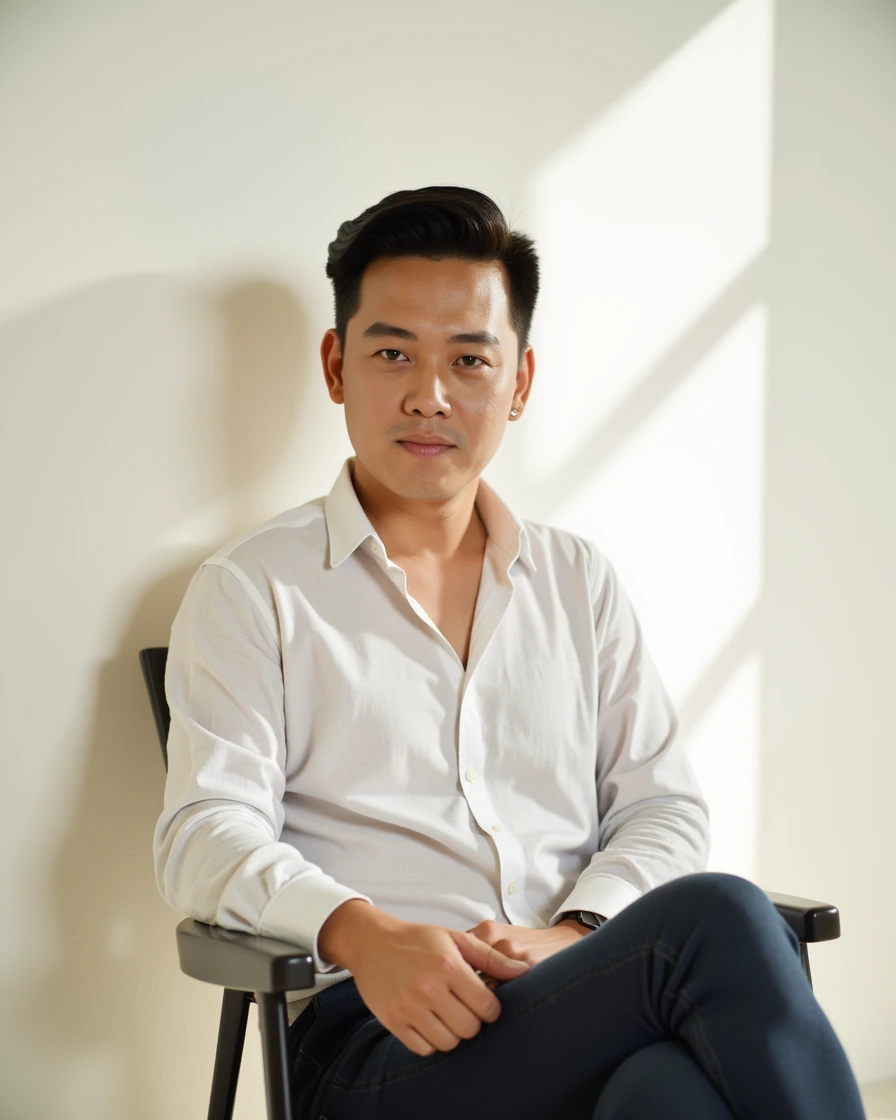
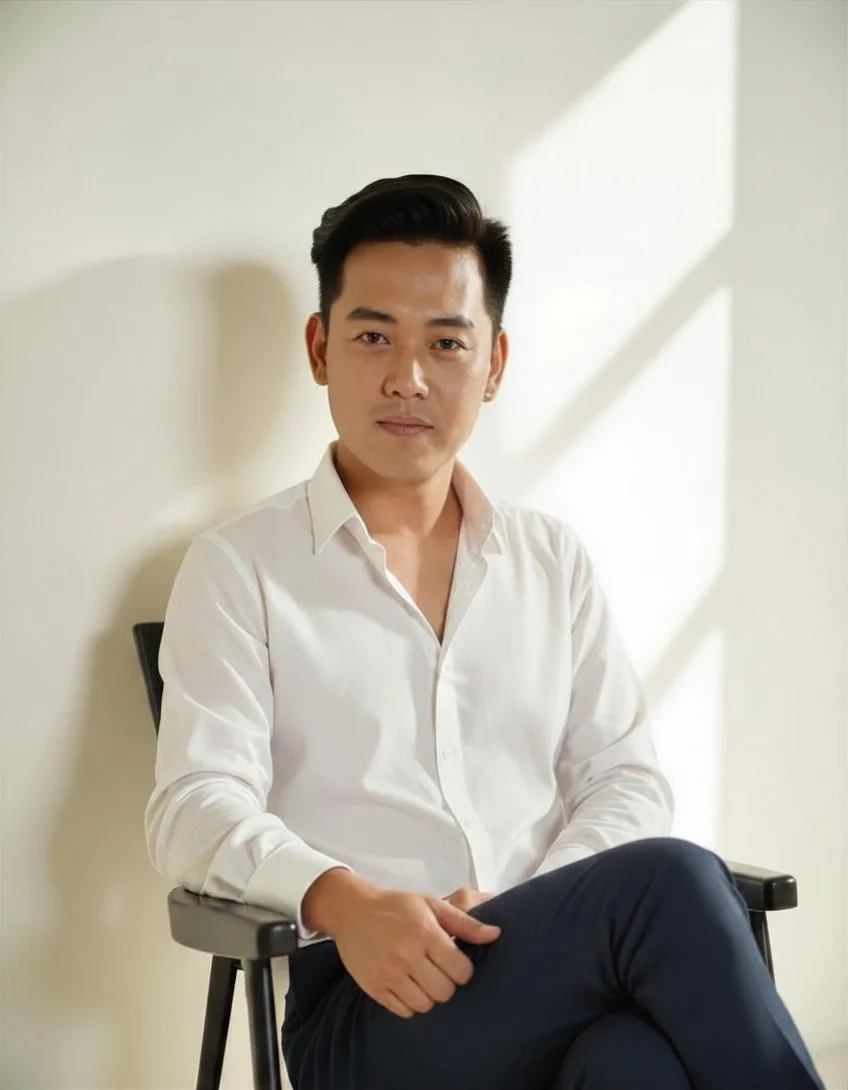
feat: gắn 4 ảnh thật — Hero portrait sửa, rót trà, bếp sáng sớm, nền Hero
- kenji-portrait.webp: ghi đè bản cũ (bản mới đã sửa lỗi chân, đã xem xác
  nhận ổn) — không đổi code, chỉ thay file.
- kenji-pouring-tea.webp: gắn vào SWAP SLOT KenjiSection (section ③).
- kitchen-morning.webp: gắn vào slot thẻ "Bản Sắc Của Bạn" trong TwoStates
  (section ⑤). Thẻ "Bản Sắc Của Con" (child-door-dusk) giữ nguyên chờ.
- bg-hero-light.webp: bật HERO_BG_SRC đã chuẩn bị sẵn trong HomeHero.tsx.

Phát hiện quan trọng (đã kiểm bằng `file`, không đoán): CẢ 4 file gốc Kenji
gửi đều KHÔNG đúng định dạng WebP thật dù đuôi .webp — kenji-portrait1 là
JPEG, kenji-pouring-tea/essence-kitchen-morning-v01/bg-hero-light-v01 đều
là PNG. Convert lại đúng chuẩn WebP bằng sharp (đã có sẵn trong
node_modules), quality 80-85: bg-hero-light 5KB, kenji-portrait 30KB,
kenji-pouring-tea 28KB, kitchen-morning 10KB — tất cả dưới 300KB, `file`
xác nhận đúng "Web/P image, VP8 encoding".

Đã tự kiểm: build+lint pass; cả 4 ảnh load thành công (naturalWidth > 0,
không lỗi console); chữ Hero vẫn đọc rõ trên nền ảnh mới (screenshot thật,
không chỉ đọc CSS); KenjiSection không chồng ảnh-chữ (đo thật: 2 cột cách
nhau 64px theo trục ngang); screenshot thật cả 4 vị trí ở mobile (595px)
và desktop (1280px) qua scroll_to + đợi reveal animation.

diff --git a/src/components/homepage/KenjiSection.tsx b/src/components/homepage/KenjiSection.tsx
@@ -16,8 +16,11 @@ export default function KenjiSection() {
         <div className="grid md:grid-cols-12 gap-10 md:gap-16 items-start">
           {/* --- Ảnh 2 — rót trà, tràn lên ranh giới (swap slot 4:5) --- */}
           <figure className="e26-reveal md:col-span-5 relative z-10 -mt-16 md:-mt-28">
-            {/* SWAP SLOT: /images/home/kenji-pouring-tea.webp khi có ảnh web-ready */}
-            <ImageSlot ratio="4/5" />
+            <ImageSlot
+              ratio="4/5"
+              src="/images/home/kenji-pouring-tea.webp"
+              alt="Kenji Phạm rót trà"
+            />
             <figcaption className="font-sans text-sm text-e26-text-2 pt-3 pb-3 border-b border-e26-border">
               Sài Gòn · 2026
             </figcaption>

diff --git a/src/components/homepage/TwoStates.tsx b/src/components/homepage/TwoStates.tsx
@@ -33,8 +33,11 @@ export default function TwoStates() {
           {/* Thẻ 1 — Bản Sắc Của Bạn */}
           <div className="e26-reveal group border border-transparent hover:border-e26-gold focus-within:border-e26-gold transition-colors duration-300 p-4 -m-4">
             <div className="relative z-0">
-              {/* SWAP SLOT: /images/home/kitchen-morning.webp khi có ảnh web-ready */}
-              <ImageSlot ratio="4/5" />
+              <ImageSlot
+                ratio="4/5"
+                src="/images/home/kitchen-morning.webp"
+                alt="Căn bếp ivory sáng sớm"
+              />
             </div>
             <p className="font-sans text-sm tracking-[0.08em] uppercase text-e26-text-2 mt-6 mb-4">
               Bản Sắc Của Bạn

diff --git a/src/components/homepage/HomeHero.tsx b/src/components/homepage/HomeHero.tsx
@@ -1,10 +1,9 @@
 import Image from "next/image";
 import ImageSlot from "./ImageSlot";
 
-// SWAP SLOT: khi có ảnh, đặt "/images/home/bg-hero-light.webp" vào đây.
 // Ảnh trang trí (alt rỗng, aria-hidden) — phủ lớp cream ~90% lên trên để chữ
 // hero giữ nguyên độ tương phản đọc được (không đổi màu chữ hiện tại).
-const HERO_BG_SRC: string | undefined = undefined;
+const HERO_BG_SRC: string | undefined = "/images/home/bg-hero-light.webp";
 
 // Section 2 — Hero: trạng thái con người. Nền CREAM (không phải ivory —
 // luật #2 của brief). Chữ lớn nhất mắt nhìn thấy nhưng KHÔNG phải heading